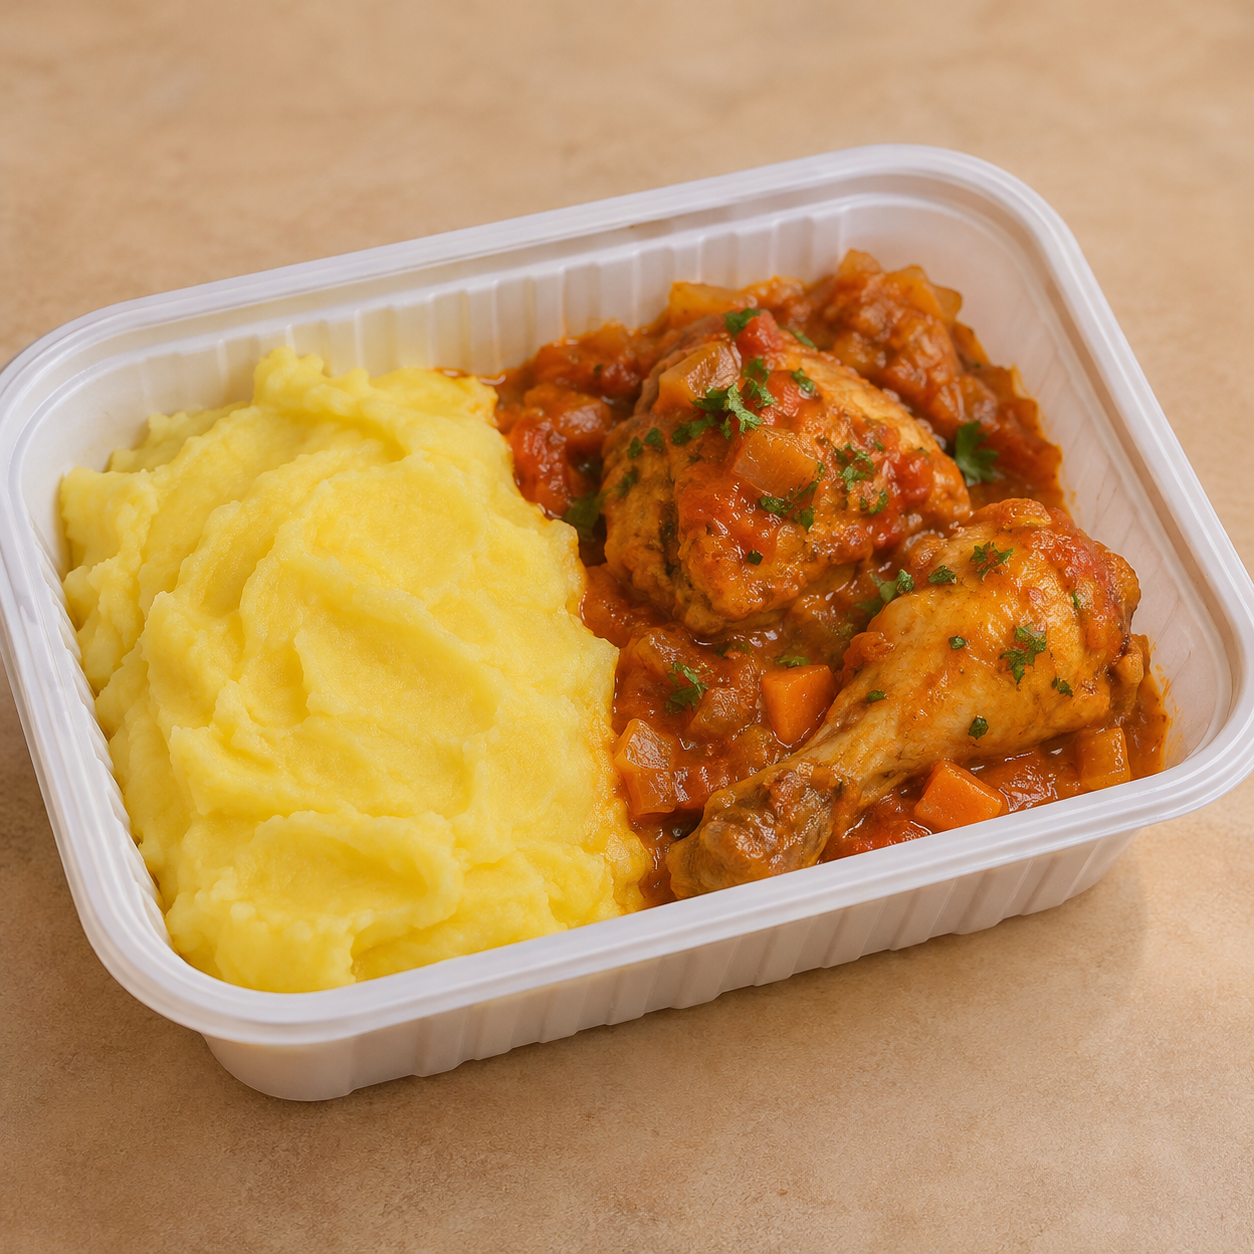
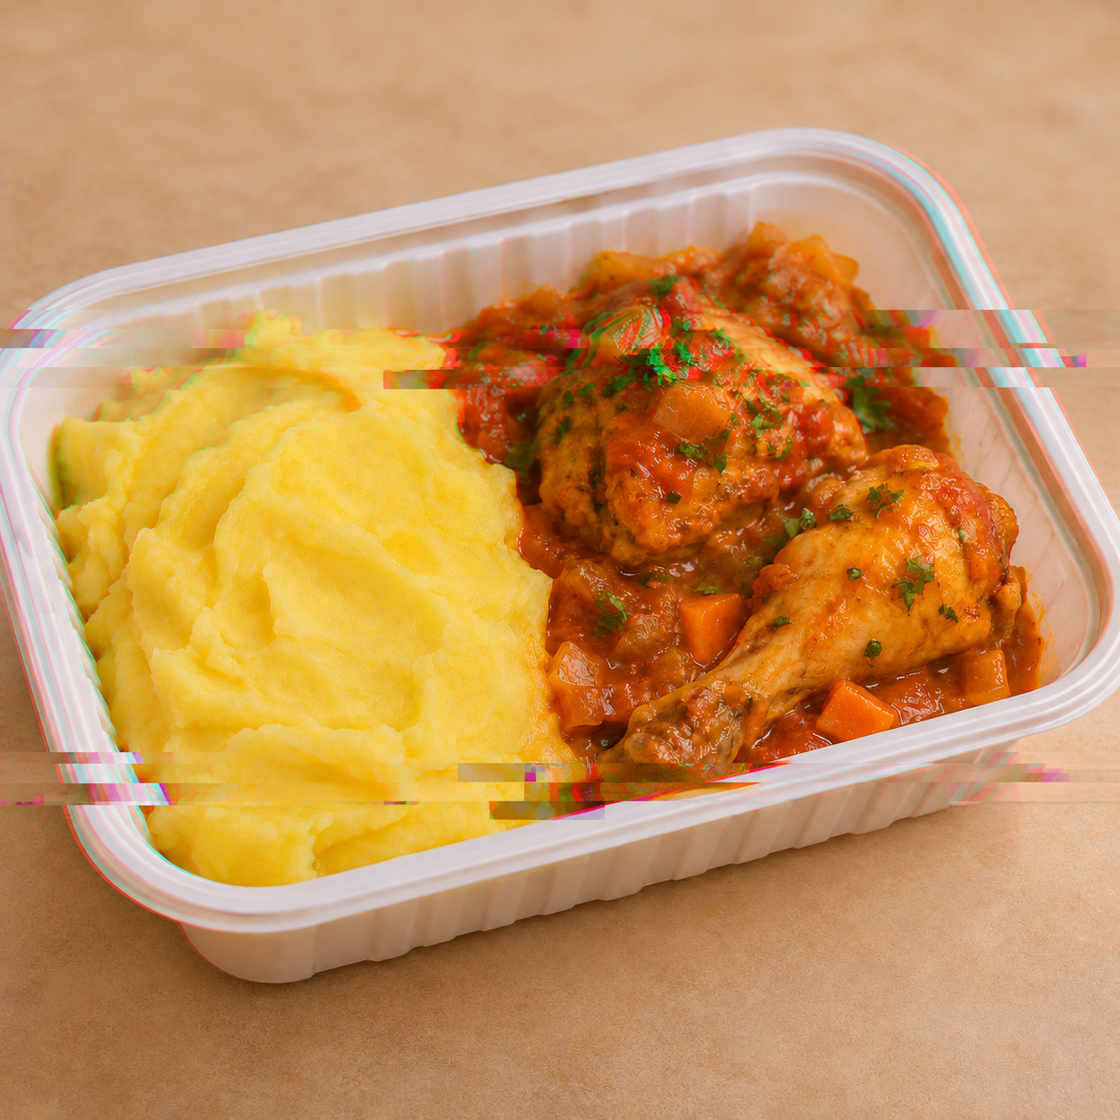
Calificar comidas y actualizar foto con efecto de error

diff --git a/src/App.tsx b/src/App.tsx
@@ -3255,14 +3255,14 @@ type ReviewableOrder = {
   orderId: string;
   kitchenName: string;
   code: string;
-  items: { name: string; imageUrl: string; quantity: number }[];
+  items: { id: string; name: string; imageUrl: string; quantity: number; rating?: number | null }[];
 };
 
 function KitchenReviewForm({ review, onSaved }: {
   review: ReviewableOrder;
   onSaved: () => Promise<void>;
 }) {
-  const [rating, setRating] = useState(0);
+  const [foodRatings, setFoodRatings] = useState<Record<string, number>>({});
   const [comment, setComment] = useState("");
   const [saving, setSaving] = useState(false);
   const [error, setError] = useState("");
@@ -3272,7 +3272,10 @@ function KitchenReviewForm({ review, onSaved }: {
     setSaving(true);
     setError("");
     try {
-      await api(`/api/orders/${review.orderId}/review`, { kitchenRating: rating, comment });
+      await api(`/api/orders/${review.orderId}/review`, {
+        foodRatings: review.items.map((item) => ({ orderItemId: item.id, rating: foodRatings[item.id] })),
+        comment,
+      });
       await onSaved();
     } catch (cause) {
       setError(cause instanceof Error ? cause.message : "No pudimos guardar tu reseña.");
@@ -3283,18 +3286,21 @@ function KitchenReviewForm({ review, onSaved }: {
 
   return <form className="review-form" onSubmit={submit}>
     <h3>¿Qué tal estuvo la sazón?</h3>
-    <p>Califica a {review.kitchenName} por tu pedido {review.code}.</p>
+    <p>Califica cada comida de tu pedido {review.code}. El promedio se reflejará en la puntuación de {review.kitchenName}.</p>
     <div className="review-ordered-items">
-      {review.items.map((item, index) => <span key={`${item.name}-${index}`}>{item.quantity} × {item.name}</span>)}
+      {review.items.map((item) => <div key={item.id}>
+        <img src={item.imageUrl} alt="" />
+        <RatingInput label={`${item.quantity} × ${item.name}`} value={foodRatings[item.id] || 0}
+          onChange={(rating) => setFoodRatings((current) => ({ ...current, [item.id]: rating }))} disabled={saving} />
+      </div>)}
     </div>
-    <RatingInput label={`Cocina ${review.kitchenName}`} value={rating} onChange={setRating} disabled={saving} />
     <label className="review-comment-field">Tu comentario
       <textarea value={comment} maxLength={100} rows={3} required disabled={saving} onChange={(event) => setComment(event.target.value)} placeholder="Cuéntanos qué te gustó de su sazón" />
       <small>{comment.length}/100 caracteres</small>
     </label>
-    <p className="review-public-note">Tu comentario y los platos de este pedido aparecerán sin tu nombre en la página de la cocina.</p>
+    <p className="review-public-note">Tu comentario, las puntuaciones y los platos de este pedido aparecerán sin tu nombre en la página de la cocina.</p>
     {error && <p className="form-error" role="alert">{error}</p>}
-    <Button type="submit" disabled={saving || rating === 0 || !comment.trim()}>{saving ? "Guardando…" : "Enviar reseña"} <ArrowRight size={18} /></Button>
+    <Button type="submit" disabled={saving || review.items.some((item) => !foodRatings[item.id]) || !comment.trim()}>{saving ? "Guardando…" : "Enviar reseña"} <ArrowRight size={18} /></Button>
   </form>;
 }
 
@@ -3315,7 +3321,6 @@ function ReviewPromptDialog({ review, onClose, onSaved }: {
 }
 
 type PublicKitchenReview = Pick<ReviewableOrder, "orderId" | "items"> & {
-  rating: number;
   comment: string;
   createdAt: string;
 };
@@ -3337,9 +3342,8 @@ function KitchenCommentsDialog({ kitchen, onClose }: { kitchen: Kitchen; onClose
     <span className="eyebrow">OPINIONES DE ESTUDIANTES</span>
     <h2 id="kitchen-comments-title">Comentarios de {kitchen.name}</h2>
     {loading ? <p role="status">Cargando comentarios…</p> : error ? <p className="form-error" role="alert">{error}</p> : reviews.length ? <div className="kitchen-comments-list">{reviews.map((review) => <article key={review.orderId} className="kitchen-comment-card">
-      <div className="kitchen-comment-stars" aria-label={`${review.rating} de 5 estrellas`}>{[1,2,3,4,5].map((star) => <Star key={star} size={16} fill={star <= review.rating ? "currentColor" : "none"} />)}</div>
       <p>{review.comment}</p>
-      <div className="kitchen-comment-items">{review.items.map((item, index) => <div key={`${review.orderId}-${index}`}><img src={item.imageUrl} alt="" loading="lazy" /><span>{item.quantity} × {item.name}</span></div>)}</div>
+      <div className="kitchen-comment-items">{review.items.map((item) => <div key={item.id}><img src={item.imageUrl} alt="" loading="lazy" /><span>{item.quantity} × {item.name}{item.rating && <strong>★ {item.rating}/5</strong>}</span></div>)}</div>
     </article>)}</div> : <p>Aún no hay comentarios para esta cocina.</p>}
   </dialog>, document.body);
 }
@@ -3518,8 +3522,7 @@ function OrderCard({
       )}
       {order.kitchenRating !== null && (
         <div className="review-saved">
-          <Star size={17} fill="currentColor" aria-hidden="true" /> Calificaste
-          a {order.kitchenName} con {order.kitchenRating}/5.
+          <Star size={17} fill="currentColor" aria-hidden="true" /> Calificaste la comida de {order.kitchenName}.
           {order.kitchenComment && <span>“{order.kitchenComment}”</span>}
         </div>
       )}

diff --git a/src/KitchenDashboard.tsx b/src/KitchenDashboard.tsx
@@ -12,7 +12,6 @@ import {
   ChevronDown,
   ChevronLeft,
   ChevronRight,
-  Star,
   X,
 } from "lucide-react";
 import { Button } from "./components/ui";
@@ -3515,7 +3514,6 @@ export function AdminDashboard({
 
 type AdminReview = {
   orderId: string;
-  rating: number;
   comment: string;
   createdAt: string;
   bannedAt: string | null;
@@ -3523,7 +3521,7 @@ type AdminReview = {
   kitchenName: string;
   studentName: string;
   code: string;
-  items: { name: string; imageUrl: string; quantity: number }[];
+  items: { id: string; name: string; imageUrl: string; quantity: number; rating: number | null }[];
 };
 type AdminReviewsData = {
   reviews: AdminReview[];
@@ -3564,7 +3562,7 @@ export function AdminReviewsDashboard({ user, onLogout }: { user: User; onLogout
 
   return <section className="page-section admin-dashboard admin-reviews" aria-label="Comentarios de las cocinas">
     <div className="page-heading admin-heading">
-      <div><span className="eyebrow">OPINIONES DE ESTUDIANTES</span><h1>Comentarios</h1><p>Gestiona la puntuación y el comentario de cada reseña como una sola unidad.</p></div>
+      <div><span className="eyebrow">OPINIONES DE ESTUDIANTES</span><h1>Comentarios</h1><p>Cada comida recibe estrellas. Al banear una reseña, se excluyen todas sus puntuaciones del promedio de la cocina.</p></div>
       <Button type="button" variant="secondary" onClick={onLogout}><BrandLogoutIcon size={18} /> Cerrar sesión</Button>
     </div>
     <div className="admin-review-controls">
@@ -3576,9 +3574,8 @@ export function AdminReviewsDashboard({ user, onLogout }: { user: User; onLogout
       <p className="admin-review-count">{data.total} {data.total === 1 ? "reseña" : "reseñas"} en esta selección</p>
       {data.reviews.length ? <div className="admin-review-list">{data.reviews.map((review) => <article className="admin-review-card" key={review.orderId}>
         <div className="admin-review-top"><div><strong>{review.kitchenName}</strong><span>{review.studentName} · {review.code}</span></div><span className={review.bannedAt ? "admin-review-banned" : "admin-review-visible"}>{review.bannedAt ? "Baneada" : "Visible"}</span></div>
-        <div className="kitchen-comment-stars" aria-label={`${review.rating} de 5 estrellas`}>{[1,2,3,4,5].map((star) => <Star key={star} size={16} fill={star <= review.rating ? "currentColor" : "none"} />)}</div>
         <p>“{review.comment || "Sin comentario anterior"}”</p>
-        <div className="kitchen-comment-items">{review.items.map((item, index) => <div key={`${review.orderId}-${index}`}><img src={item.imageUrl} alt="" loading="lazy" /><span>{item.quantity} × {item.name}</span></div>)}</div>
+        <div className="kitchen-comment-items">{review.items.map((item) => <div key={item.id}><img src={item.imageUrl} alt="" loading="lazy" /><span>{item.quantity} × {item.name}{item.rating && <strong>★ {item.rating}/5</strong>}</span></div>)}</div>
         <Button type="button" variant="secondary" disabled={busy === review.orderId} onClick={() => moderate(review)}>{busy === review.orderId ? "Guardando…" : review.bannedAt ? "Restaurar reseña" : "Banear reseña"}</Button>
       </article>)}</div> : <p className="km-empty">No hay comentarios en esta selección.</p>}
       {data.total > 10 && <nav className="km-pagination" aria-label="Páginas de comentarios"><Button type="button" variant="secondary" disabled={page === 0} onClick={() => setPage((current) => current - 1)}>Anterior</Button><span>Página {page + 1} de {Math.ceil(data.total / 10)}</span><Button type="button" variant="secondary" disabled={(page + 1) * 10 >= data.total} onClick={() => setPage((current) => current + 1)}>Siguiente</Button></nav>}

diff --git a/src/styles.css b/src/styles.css
@@ -3043,11 +3043,19 @@ p {
   justify-self: start;
 }
 .review-ordered-items {
+  display: grid;
+  gap: 12px;
+}
+.review-ordered-items > div {
   display: flex;
-  flex-wrap: wrap;
-  gap: 6px 12px;
-  color: var(--color-muted);
-  font-size: 14px;
+  align-items: center;
+  gap: 12px;
+}
+.review-ordered-items img {
+  width: 52px;
+  height: 52px;
+  object-fit: cover;
+  border-radius: 10px;
 }
 .review-comment-field {
   display: grid;
@@ -3170,6 +3178,12 @@ p {
   gap: 8px;
   font-size: 13px;
   color: var(--color-muted);
+}
+.kitchen-comment-items span {
+  display: grid;
+}
+.kitchen-comment-items strong {
+  color: var(--color-brand);
 }
 .kitchen-comment-items img {
   width: 44px;
